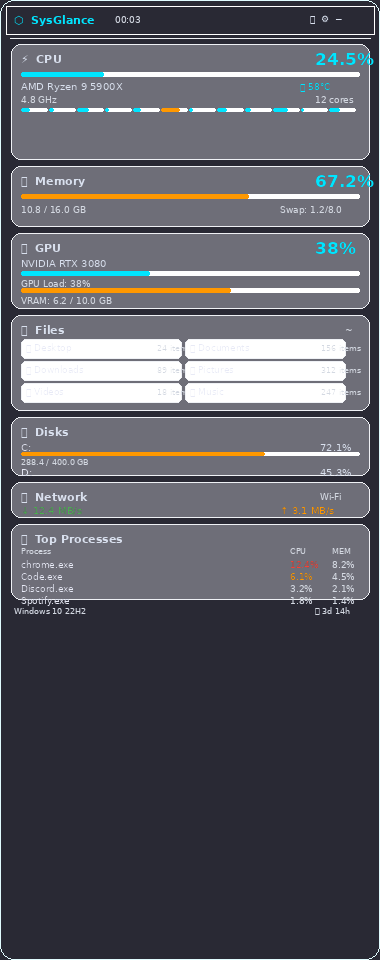
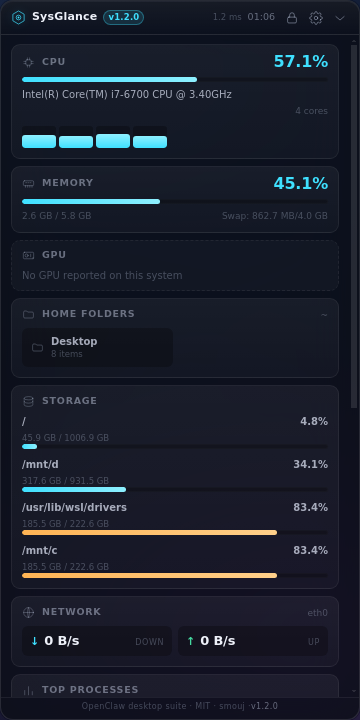
fix(layout): window geometry follows any config change; filter pseudo-filesystems
Choosing a layout or screen corner in the settings panel changed the DOM but never resized or repositioned the window: the panel sends set-config, while the geometry code lived behind the separate set-layout channel that nothing called. Geometry now hangs off the config change itself, so the settings panel, the tray menu and the context menu all move the window.

si.fsSize() reports every mount, so Storage showed eight lines of squashfs snap loops, tmpfs and 9p drivers with truncated paths and 0 B sizes, which read like a raw df dump. Pseudo and zero-size mounts are filtered and the list is sorted largest-first (8 entries -> 4 on this host).

Also adds --screenshot / npm run screenshot, which boots the real app and refreshes docs/screenshot*.png so the README cannot drift from the code.

diff --git a/src/main.js b/src/main.js
@@ -25,6 +25,11 @@ const metrics = require('./metrics');
 const shellIpc = require('./shell/ipc');
 
 const SELF_TEST = process.argv.includes('--self-test');
+// --screenshot[=dir] boots the real app, captures the panel (sidebar, settings,
+// dock) and exits. Used to keep docs/*.png honest and to review visual changes.
+const SCREENSHOT_ARG = process.argv.find((a) => a.startsWith('--screenshot'));
+const SCREENSHOT = !!SCREENSHOT_ARG;
+const SCREENSHOT_DIR = SCREENSHOT_ARG && SCREENSHOT_ARG.includes('=') ? SCREENSHOT_ARG.split('=')[1] : path.join(__dirname, '..', 'docs');
 const APP_VERSION = app.getVersion();
 
 // The suite footer, identical in the window, the tray menu and both repositories'
@@ -110,7 +115,7 @@ function getLayoutBounds(layout) {
   const display = screen.getPrimaryDisplay();
   const { width: sw, height: sh } = display.workAreaSize;
   switch (layout) {
-    case 'dock':   return { w: sw, h: 80, minW: 600, minH: 60, maxW: sw, maxH: 200 };
+    case 'dock':   return { w: sw, h: 142, minW: 600, minH: 120, maxW: sw, maxH: 280 };
     case 'corner': return { w: 220, h: 260, minW: 180, minH: 200, maxW: 300, maxH: 400 };
     case 'sidebar':
     default:       return { w: 360, h: 720, minW: 280, minH: 400, maxW: 520, maxH: sh };
@@ -396,23 +401,33 @@ function setTheme(t) {
 
 function setAnchor(a) {
   if (!applyConfigPatch('anchor', a, 'set-anchor')) return;
-  if (mainWindow) {
-    const [w, h] = mainWindow.getSize();
-    const pos = getPositionForAnchor(config.anchor, w, h);
-    mainWindow.setPosition(pos.x, pos.y);
-  }
+  applyAnchorPosition(config.anchor);
+}
+
+// Geometry lives in two helpers so *any* path that changes layout/anchor — the
+// dedicated IPC, the settings panel (which sends set-config), the tray menu —
+// moves the window. Before this, choosing "Dock" in the settings panel changed
+// the internal CSS layout but left the window at sidebar dimensions.
+function applyLayoutGeometry(layout) {
+  if (!mainWindow || mainWindow.isDestroyed()) return;
+  const bounds = getLayoutBounds(layout);
+  mainWindow.setMinimumSize(bounds.minW, bounds.minH);
+  mainWindow.setMaximumSize(bounds.maxW, bounds.maxH);
+  mainWindow.setSize(bounds.w, bounds.h);
+  const pos = getPositionForAnchor(config.anchor, bounds.w, bounds.h);
+  mainWindow.setPosition(pos.x, pos.y);
+}
+
+function applyAnchorPosition(anchor) {
+  if (!mainWindow || mainWindow.isDestroyed()) return;
+  const [w, h] = mainWindow.getSize();
+  const pos = getPositionForAnchor(anchor, w, h);
+  mainWindow.setPosition(pos.x, pos.y);
 }
 
 function setLayout(layout) {
   if (!applyConfigPatch('layout', layout, 'set-layout')) return;
-  if (mainWindow) {
-    const bounds = getLayoutBounds(config.layout);
-    mainWindow.setMinimumSize(bounds.minW, bounds.minH);
-    mainWindow.setMaximumSize(bounds.maxW, bounds.maxH);
-    mainWindow.setSize(bounds.w, bounds.h);
-    const pos = getPositionForAnchor(config.anchor, bounds.w, bounds.h);
-    mainWindow.setPosition(pos.x, pos.y);
-  }
+  applyLayoutGeometry(config.layout);
   send('layout-changed', config.layout);
 }
 
@@ -554,10 +569,19 @@ function safeShellHost() {
 }
 
 ipcMain.handle('set-config', (_e, key, value) => {
-  const before = config.refreshInterval, beforeSlow = config.slowInterval;
+  const beforeFast = config.refreshInterval, beforeSlow = config.slowInterval;
+  const beforeLayout = config.layout, beforeAnchor = config.anchor;
   const ok = applyConfigPatch(key, value, 'renderer');
-  if (ok && (config.refreshInterval !== before || config.slowInterval !== beforeSlow)) restartDataCollection();
-  return { ok };
+  if (!ok) return { ok: false };
+  // A settings change that implies a different window shape must actually
+  // reshape the window, not only the DOM.
+  if (config.layout !== beforeLayout) {
+    applyLayoutGeometry(config.layout);
+    send('layout-changed', config.layout);
+  }
+  if (config.anchor !== beforeAnchor) applyAnchorPosition(config.anchor);
+  if (config.refreshInterval !== beforeFast || config.slowInterval !== beforeSlow) restartDataCollection();
+  return { ok: true };
 });
 
 ipcMain.handle('set-opacity', (_e, v) => {
@@ -619,6 +643,7 @@ app.whenReady().then(() => {
   globalShortcut.register('CommandOrControl+Shift+L', togglePositionLock);
   send('app-version', { version: APP_VERSION, electron: process.versions.electron });
   if (SELF_TEST) runSelfTest();
+  if (SCREENSHOT) runScreenshot();
 }).catch((err) => {
   log.exception('app.whenReady', err);
   app.exit(1);
@@ -641,6 +666,56 @@ app.on('before-quit', () => {
 // bridge reached the renderer, then exits non-zero on any error.
 function trayFooterLabelMatches() {
   return SUITE_FOOTER_LABEL() === SUITE_FOOTER + ' · v' + APP_VERSION;
+}
+
+// ── screenshot (dev/docs) ───────────────────────────────
+// A transparent window over nothing has no backdrop to blur, so the glass looks
+// flat. This paints a desktop-like gradient behind the page (html.shot) purely
+// for the capture, then writes PNGs and quits.
+async function runScreenshot() {
+  const sleep = (ms) => new Promise((r) => setTimeout(r, ms));
+  const fsx = require('fs');
+  const shots = [
+    { file: 'screenshot.png', label: 'sidebar', layout: 'sidebar', settings: false },
+    { file: 'screenshot-settings.png', label: 'settings', layout: 'sidebar', settings: true },
+    { file: 'screenshot-dock.png', label: 'dock', layout: 'dock', settings: false },
+    { file: 'screenshot-mini.png', label: 'mini', layout: 'corner', settings: false }
+  ];
+  try {
+    fsx.mkdirSync(SCREENSHOT_DIR, { recursive: true });
+    await sleep(1200);   // let the first fast + slow cycles land
+    await mainWindow.webContents.executeJavaScript(`
+      document.documentElement.classList.add('shot');
+      if (!document.querySelector('.shot-desktop')) {
+        var d = document.createElement('div');
+        d.className = 'shot-desktop';
+        document.documentElement.insertBefore(d, document.body);
+      }
+      true;
+    `, true);
+    await sleep(350);
+
+    for (const shot of shots) {
+      await mainWindow.webContents.executeJavaScript(
+        `window.sysglance.setConfig('layout', '${shot.layout}');` +
+        `document.getElementById('settings-panel').classList.toggle('hidden', ${shot.settings ? 'false' : 'true'});` +
+        `true;`, true);
+      await sleep(900);
+      const image = await mainWindow.webContents.capturePage();
+      const out = path.join(SCREENSHOT_DIR, shot.file);
+      fsx.writeFileSync(out, image.toPNG());
+      const size = image.getSize();
+      console.log('[screenshot] ' + shot.label + ' -> ' + out + ' (' + size.width + 'x' + size.height + ')');
+    }
+    console.log('[screenshot] done');
+  } catch (err) {
+    console.error('[screenshot] failed: ' + (err && err.stack ? err.stack : err));
+    isQuitting = true;
+    app.exit(1);
+    return;
+  }
+  isQuitting = true;
+  app.exit(0);
 }
 
 async function runSelfTest() {

diff --git a/src/metrics.js b/src/metrics.js
@@ -198,22 +198,34 @@ async function collectFast() {
 }
 
 // ── slow tier (systeminformation, 5–10 s) ───────────────
-const HOME_FOLDERS = [
-  { name: 'Desktop', icon: '🖥' }, { name: 'Documents', icon: '📄' },
-  { name: 'Downloads', icon: '📥' }, { name: 'Pictures', icon: '🖼' },
-  { name: 'Videos', icon: '🎬' }, { name: 'Music', icon: '🎵' }
-];
+const HOME_FOLDERS = ['Desktop', 'Documents', 'Downloads', 'Pictures', 'Videos', 'Music'];
+
+// Filesystems that are not storage a user thinks about. `si.fsSize()` reports
+// every mount, so an unfiltered list on Linux/WSL is eight lines of squashfs
+// snap loops, tmpfs and 9p drivers with truncated paths — which reads like a
+// raw `df` dump rather than a disk panel. Windows is unaffected (C:, D:, …).
+const PSEUDO_FS = /^(squashfs|tmpfs|devtmpfs|devpts|overlay|ramfs|proc|sysfs|cgroup2?|autofs|nsfs|tracefs|debugfs|binfmt_misc|fusectl|configfs|pstore|securityfs|mqueue|hugetlbfs|efivarfs|fuse\..*|rpc_pipefs|selinuxfs)$/i;
+const PSEUDO_MOUNT = /^\/(proc|sys|dev|snap)(\/|$)/;
+
+function isUserFacingDisk(d) {
+  if (!(d.size > 0)) return false;                       // zero-size pseudo mounts
+  const type = String(d.type || '');
+  if (type && PSEUDO_FS.test(type)) return false;
+  const mount = String(d.mount || '');
+  if (PSEUDO_MOUNT.test(mount)) return false;
+  return true;
+}
 
 function listFolders() {
   const home = os.homedir();
   const out = [];
   for (const f of HOME_FOLDERS) {
     try {
-      const p = path.join(home, f.name);
+      const p = path.join(home, f);
       fs.accessSync(p, fs.constants.R_OK);
       let count = 0;
       try { count = fs.readdirSync(p).length; } catch (_) { /* unreadable but present */ }
-      out.push({ name: f.name, icon: f.icon, path: p, count });
+      out.push({ name: f, path: p, count });
     } catch (_) { /* folder absent */ }
   }
   return { home, folders: out };
@@ -254,12 +266,16 @@ async function collectSlow(opts) {
   }));
 
   const disks = (r.disks || [])
+    .filter(isUserFacingDisk)
     .map((d) => ({
       fs: d.fs || '?', mount: d.mount || '?', used: d.used || 0, size: d.size || 0,
-      use: typeof d.use === 'number' ? +d.use.toFixed(1) : 0, available: d.available || 0
+      use: typeof d.use === 'number' ? +d.use.toFixed(1) : 0, available: d.available || 0,
+      type: d.type || null
     }))
-    .filter((d) => d.size > 0)
-    .slice(0, 8);
+    // Largest first: the filesystem the user cares about is almost always the
+    // biggest one. Root is pinned ahead of equal-footing mounts.
+    .sort((a, b) => (b.size - a.size))
+    .slice(0, 6);
 
   const netList = r.net || [];
   const activeNet = netList.find((n) => n.rx_sec > 0 || n.tx_sec > 0) || netList[0] || {};
